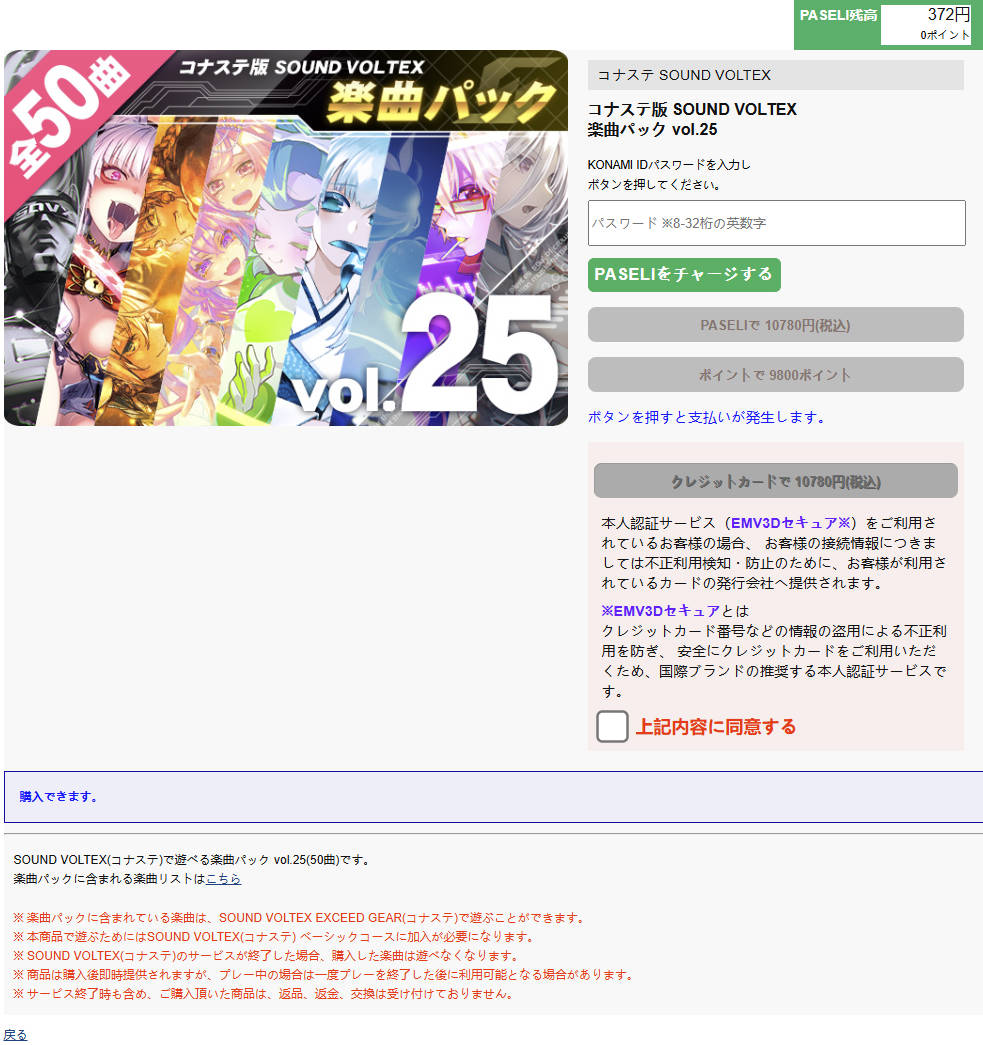
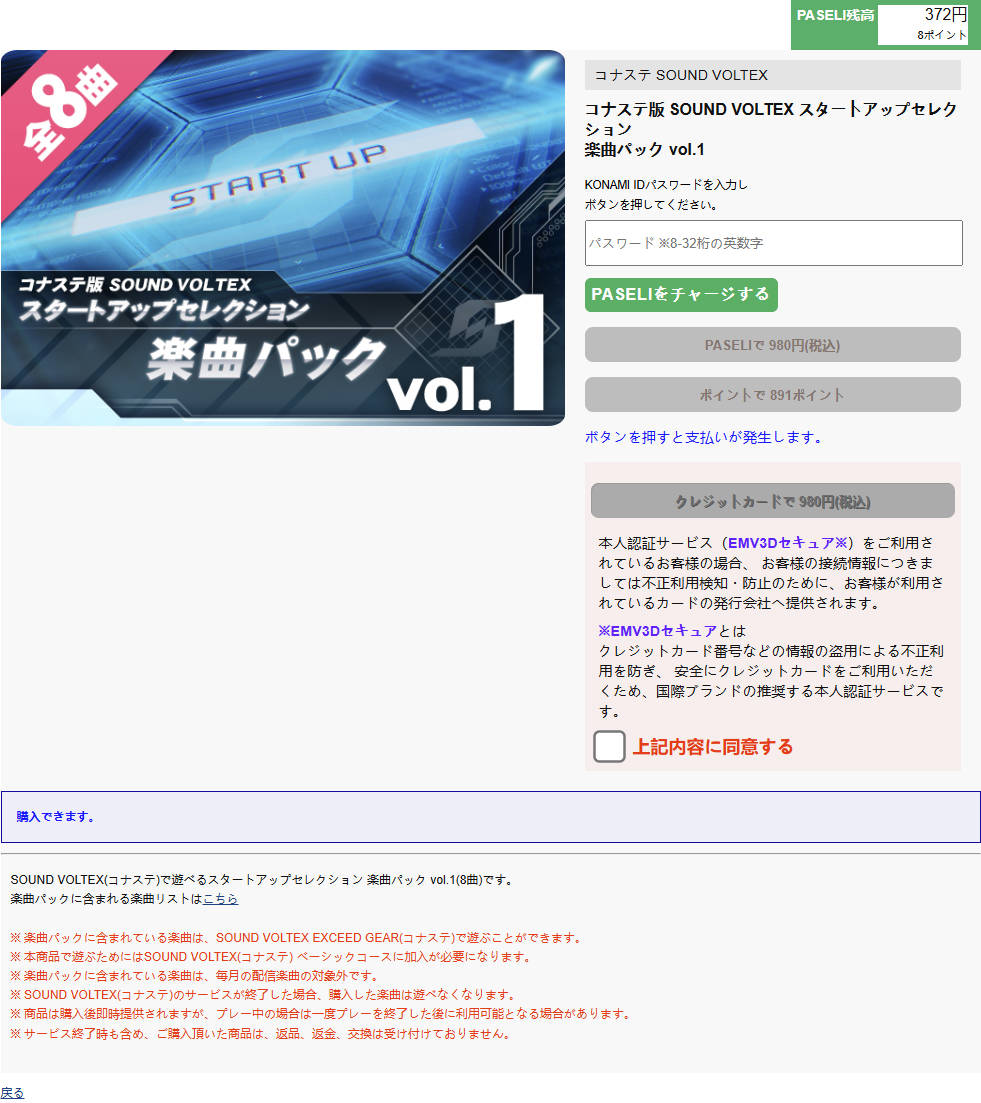
Update

diff --git a/docs/konasute/songpack.md b/docs/konasute/songpack.md
@@ -13,5 +13,17 @@
     ![img](../img/konasute/mall-songpack-list.jpg)
     
     购买流程与订阅的流程是一致的，只要你的余额足够，选择对应的支付方式即可
+
+    你可以在下文的`楽曲パックに含まれる楽曲リストは`处点击旁边的超链接查看此曲包内包含的歌曲
     
     ![img](../img/konasute/mall-songpack-buy.jpg)
+
+    此处以信用卡支付为例，再最上方输入KONAMI ID的账户密码，勾选`上記内容に同意する`，点击`クレジットカードで`进入付款页面
+
+    ![img](../img/konasute/mall-songpack-buy-creditcard.jpg)
+
+    之后填写信息即可完成付款
+
+    ![img](../img/konasute/mall-songpack-buy-creditcard-2.jpg)
+
+    ![img](../img/konasute/mall-songpack-buy-creditcard-done.jpg)

diff --git a/docs/konasute/payment-creditcard.md b/docs/konasute/payment-creditcard.md
@@ -2,7 +2,7 @@
 
 !!! info ""
 
-    首先此处的信用卡并不一定是信用卡，是Visa或者MasterCard或者JCB的应该都可以绑定，所以部分外币储蓄卡也行，经过实测中银长城Visa卡/汇丰蓝狮子MasterCard扣账卡均可以绑定
+    首先此处的信用卡并不一定是信用卡，是Visa或者MasterCard或者JCB的应该都可以绑定，所以部分外币储蓄卡也行，经过实测中银长城Visa卡/汇丰蓝狮子MasterCard扣账卡均可以绑定与付款，下文以蓝狮子为例
 
     首先我们打开Konami ID的官网，登录你的账号
 
